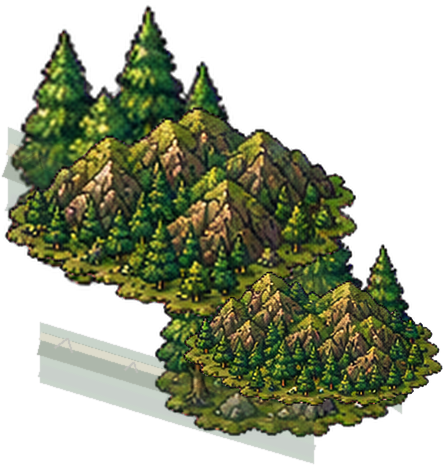
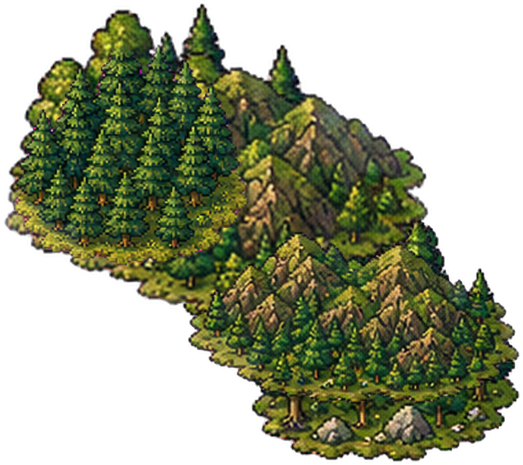
Add production Harz terrain glyph layer
# Conflicts:
#	assets/map/germany_styled.png
#	assets/map/massifs/harz.json
#	assets/map/massifs/harz.png
#	assets/map/massifs/manifest.json
#	docs/map-orchestrator-progress.md
#	tests/test_map_geography_audit.py

diff --git a/map_pipeline/compose_map.py b/map_pipeline/compose_map.py
@@ -336,10 +336,11 @@ RELIEF_REGIONS = [
         "label": "Harz",
         "kind": "isolated_mountain_range",
         "glyph": "forested_highland",
+        "custom_renderer": "harz_production_v1",
         "fill": (55, 112, 59, 96),
         "blur": 24,
         "points": [(9.76, 52.14), (10.55, 52.22), (11.36, 51.92), (11.48, 51.52), (10.72, 51.24), (9.72, 51.42)],
-        "trees": [(10.36, 51.88, 72), (10.84, 51.58, 64)],
+        "trees": [(10.18, 51.96, 72), (10.42, 51.86, 78), (10.72, 51.72, 66), (10.96, 51.55, 62)],
         "ridge_bands": [
             {
                 "id": "harz_brocken_spine",
@@ -356,7 +357,11 @@ RELIEF_REGIONS = [
                 "step": 28,
             },
         ],
-        "mountain_glyphs": [("highland_forest_1", 10.50, 51.78, 188), ("highland_forest_2", 10.92, 51.55, 138)],
+        "mountain_glyphs": [
+            ("highland_forest_1", 10.42, 51.82, 226),
+            ("highland_forest_2", 10.86, 51.60, 176),
+            ("atlas_forest_pine_dense", 10.15, 51.92, 132),
+        ],
         "mountains": [],
     },
     {
@@ -1383,6 +1388,9 @@ def _draw_terrain(canvas, proj, land_mask):
 
 
 def _render_relief_region_decor_layer(size, proj, region):
+    if region.get("custom_renderer") == "harz_production_v1":
+        return _render_harz_production_layer(size, proj, region)
+
     layer = Image.new("RGBA", size, (0, 0, 0, 0))
     draw = ImageDraw.Draw(layer)
     for lon, lat, tree_size in region.get("trees", []):
@@ -1396,6 +1404,32 @@ def _render_relief_region_decor_layer(size, proj, region):
     for lon, lat, mountain_size in region.get("mountains", []):
         _draw_mountains(layer, draw, proj, lon, lat, mountain_size, region.get("glyph", "alpine"))
     return layer
+
+
+def _render_harz_production_layer(size, proj, region):
+    layer = Image.new("RGBA", size, (0, 0, 0, 0))
+    region_mask = _relief_region_alpha_mask(size, proj, region)
+
+    for lon, lat, radius in region.get("trees", []):
+        _draw_tree_cluster(layer, proj, lon, lat, radius)
+
+    glyph_layer = Image.new("RGBA", size, (0, 0, 0, 0))
+    for glyph_name, lon, lat, width in region.get("mountain_glyphs", []):
+        _draw_glyph_center(glyph_layer, proj, glyph_name, lon, lat, width)
+    glyph_alpha = Image.composite(glyph_layer.getchannel("A"), Image.new("L", size, 0), region_mask)
+    glyph_layer.putalpha(glyph_alpha)
+    layer.alpha_composite(glyph_layer)
+    return layer
+
+
+def _relief_region_alpha_mask(size, proj, region):
+    mask = Image.new("L", size, 0)
+    draw = ImageDraw.Draw(mask)
+    polygon = [_project_point(proj, lon, lat) for lon, lat in region.get("points", [])]
+    if len(polygon) >= 3:
+        draw.polygon(polygon, fill=230)
+        mask = mask.filter(ImageFilter.GaussianBlur(4 * RENDER_SCALE))
+    return mask
 
 
 def _should_export_relief_region_source_layer(region):
@@ -1919,43 +1953,44 @@ def _massif_source_metadata(segment, image_name, render_bbox, cropped_size, proj
 def _relief_region_source_metadata(region, image_name, render_bbox, cropped_size, proj):
     contract_layer = _terrain_massif_contract_layers().get(region["id"], {})
     metadata = _source_layer_base_metadata(region, image_name, render_bbox, cropped_size, proj)
-    metadata.update(
-        {
-            "source_extent_id": contract_layer.get("source_extent_id", region["id"]),
-            "source_type": "relief_region",
-            "kind": region.get("kind", ""),
-            "placement_policy": contract_layer.get("placement_policy", "named_region_layer"),
-            "source_confidence": contract_layer.get("source_confidence", "uncontracted"),
-            "replacement_status": contract_layer.get("replacement_status", "needs_custom_asset"),
-            "region_polygon": [{"longitude": lon, "latitude": lat} for lon, lat in region.get("points", [])],
-            "trees": [
-                {"longitude": lon, "latitude": lat, "radius": radius}
-                for lon, lat, radius in region.get("trees", [])
-            ],
-            "ridge_bands": [
-                {
-                    "id": ridge_band["id"],
-                    "style": ridge_band.get("style", "alpine"),
-                    "points": [{"longitude": lon, "latitude": lat} for lon, lat in ridge_band.get("points", [])],
-                    "height": ridge_band.get("height", 72),
-                    "step": ridge_band.get("step", 44),
-                }
-                for ridge_band in region.get("ridge_bands", [])
-            ],
-            "massif_segments": [segment["id"] for segment in region.get("massif_segments", [])],
-            "glyphs": [
-                {
-                    "glyph": glyph_name,
-                    "longitude": lon,
-                    "latitude": lat,
-                    "width": width,
-                    "y_offset": 0.0,
-                }
-                for glyph_name, lon, lat, width in region.get("mountain_glyphs", [])
-            ],
-            "extends_to": region.get("extends_to", []),
-        }
-    )
+    extra = {
+        "source_extent_id": contract_layer.get("source_extent_id", region["id"]),
+        "source_type": "relief_region",
+        "kind": region.get("kind", ""),
+        "placement_policy": contract_layer.get("placement_policy", "named_region_layer"),
+        "source_confidence": contract_layer.get("source_confidence", "uncontracted"),
+        "replacement_status": contract_layer.get("replacement_status", "needs_custom_asset"),
+        "region_polygon": [{"longitude": lon, "latitude": lat} for lon, lat in region.get("points", [])],
+        "trees": [
+            {"longitude": lon, "latitude": lat, "radius": radius}
+            for lon, lat, radius in region.get("trees", [])
+        ],
+        "ridge_bands": [
+            {
+                "id": ridge_band["id"],
+                "style": ridge_band.get("style", "alpine"),
+                "points": [{"longitude": lon, "latitude": lat} for lon, lat in ridge_band.get("points", [])],
+                "height": ridge_band.get("height", 72),
+                "step": ridge_band.get("step", 44),
+            }
+            for ridge_band in region.get("ridge_bands", [])
+        ],
+        "massif_segments": [segment["id"] for segment in region.get("massif_segments", [])],
+        "glyphs": [
+            {
+                "glyph": glyph_name,
+                "longitude": lon,
+                "latitude": lat,
+                "width": width,
+                "y_offset": 0.0,
+            }
+            for glyph_name, lon, lat, width in region.get("mountain_glyphs", [])
+        ],
+        "extends_to": region.get("extends_to", []),
+    }
+    if region.get("custom_renderer"):
+        extra["custom_renderer"] = region["custom_renderer"]
+    metadata.update(extra)
     return metadata
 
 

diff --git a/tests/test_map_geography_audit.py b/tests/test_map_geography_audit.py
@@ -97,6 +97,21 @@ class MapGeographyAuditTest(unittest.TestCase):
                 with self.subTest(region=region["id"], tree_size=tree_size):
                     self.assertGreaterEqual(_relief_tree_cluster_width(tree_size), RELIEF_TREE_CLUSTER_MIN_WIDTH)
 
+    def test_harz_uses_custom_production_renderer(self) -> None:
+        from map_pipeline.compose_map import RELIEF_REGIONS, TERRAIN_MASSIF_LAYERS_PATH
+        import json
+
+        harz = next(region for region in RELIEF_REGIONS if region["id"] == "harz")
+        self.assertEqual("harz_production_v1", harz["custom_renderer"])
+        self.assertGreaterEqual(len(harz["trees"]), 4)
+        self.assertIn(("atlas_forest_pine_dense", 10.15, 51.92, 132), harz["mountain_glyphs"])
+
+        with open(TERRAIN_MASSIF_LAYERS_PATH, "r", encoding="utf-8") as file:
+            contract = json.load(file)
+        harz_contract = next(layer for layer in contract["source_layers"] if layer["id"] == "harz")
+        self.assertEqual("production_candidate_custom_harz_v1", harz_contract["replacement_status"])
+        self.assertIn("atlas_forest_pine_dense", harz_contract["allowed_glyphs"])
+
     def test_alpine_rendered_segments_are_not_decorative_only_anchors(self) -> None:
         from map_pipeline.compose_map import ALPINE_MASSIF_SEGMENTS, ALPINE_RELIEF_EXTENTS_PATH
         import json

diff --git a/tests/test_map_panel_contract.py b/tests/test_map_panel_contract.py
@@ -376,8 +376,8 @@ class MapPanelContractTest(unittest.TestCase):
             '"id": "austrian_alps_massif"',
             '"massif_segments": ALPINE_MASSIF_SEGMENTS',
             '"mountain_glyphs": []',
-            '("highland_forest_1", 10.50, 51.78, 188)',
-            '("highland_forest_2", 10.92, 51.55, 138)',
+            '("highland_forest_1", 10.42, 51.82, 226)',
+            '("highland_forest_2", 10.86, 51.60, 176)',
             '("border_highland_1", 13.10, 50.66, 145)',
             '"extends_to": ["France", "Switzerland", "Italy", "Austria", "Slovenia"]',
             '"id": "black_forest"',
@@ -387,6 +387,8 @@ class MapPanelContractTest(unittest.TestCase):
             '"id": "harz"',
             '"id": "harz_brocken_spine"',
             '"id": "harz_south_spur"',
+            '"custom_renderer": "harz_production_v1"',
+            "def _render_harz_production_layer(size, proj, region):",
             '"id": "erzgebirge"',
             '"glyph": "border_highland"',
             '"id": "erzgebirge_border_spine"',

diff --git a/docs/map-orchestrator-progress.md b/docs/map-orchestrator-progress.md
@@ -1235,3 +1235,21 @@ Strict review status:
 Parallel work still running:
 
 - #69 worker is still active on the real production glyph-layer terrain pass. This is the main blocker for moving from prototype quality toward the requested reusable-glyph reference-map direction.
+
+## Iteration 2026-06-01 00:20
+
+Worker pass for #69 in worktree `/tmp/cable-world-issue-69-production-terrain-glyphs`:
+
+- Started the production glyph-layer terrain pass instead of another guardrail-only change.
+- Replaced the Harz rendering path with `custom_renderer: "harz_production_v1"`.
+- The Harz source layer now composes larger reusable transparent glyphs (`highland_forest_1`, `highland_forest_2`, `atlas_forest_pine_dense`) and expanded forest masses.
+- Removed the old visible green ridge-band rectangle from the Harz source PNG; ridge-band geometry remains in metadata for source accuracy and future art passes.
+- Updated `map_pipeline/data/terrain_massif_layers.json` so Harz is marked `production_candidate_custom_harz_v1`.
+- Regenerated `assets/map/germany_styled.png`, `assets/map/massifs/harz.png`, `assets/map/massifs/harz.json` and `assets/map/massifs/manifest.json`.
+
+Evidence:
+
+- `assets/map/massifs/harz.png` was visually checked directly. It is now a transparent reusable Harz terrain layer without the previous rectangular band artifact.
+- `assets/map/germany_styled.png` was visually checked directly. Harz is cleaner and more readable, but the full map is still not `10/10`.
+
+Self-audit: this is a useful production-art slice for #69, not final acceptance. Current overall map remains rejected below `10/10` because Alps and the other massif layers still need equivalent custom/elevation-backed art passes and strict Web screenshot review.

diff --git a/docs/map-generation-handoff.md b/docs/map-generation-handoff.md
@@ -474,3 +474,29 @@ Latest audit:
 ```text
 docs/map-quality-audit-2026-05-31.md
 ```
+
+## Harz production glyph-layer pass
+
+Issue #69 first production-art slice replaces the generic Harz placeholder with a reusable transparent source layer generated by the local renderer, not by a monolithic map bitmap.
+
+No external raster generation was used for this pass, so there is no imagegen prompt. The repeatable workflow is:
+
+```bash
+uv run python -m map_pipeline.compose_map
+```
+
+The command writes:
+
+- `assets/map/germany_styled.png`
+- `assets/map/massifs/harz.png`
+- `assets/map/massifs/harz.json`
+- `assets/map/massifs/manifest.json`
+
+Implementation notes:
+
+- `RELIEF_REGIONS["harz"]` uses `custom_renderer: "harz_production_v1"`.
+- The layer is composed from existing transparent atlas glyphs and larger tree masses: `highland_forest_1`, `highland_forest_2`, and `atlas_forest_pine_dense`.
+- `ridge_bands` remain in metadata as real Harz structure, but the renderer no longer draws the old generic green ridge-band rectangle into the Harz source layer.
+- `map_pipeline/data/terrain_massif_layers.json` marks Harz as `production_candidate_custom_harz_v1`.
+
+Self-audit: this is a material #69 improvement because Harz is now a cleaner reusable terrain layer instead of a generic stamped mountain group with visible technical bands. It is not a full `10/10` terrain solution: Alps and other massifs still need equivalent custom/elevation-backed passes and strict screenshot review.

diff --git a/docs/terrain-glyph-layer-inventory.md b/docs/terrain-glyph-layer-inventory.md
@@ -24,7 +24,7 @@ They must not be shipped as full-map production underlays.
 ## Current Named Layers
 
 - `alps`: composite cross-border layer, backed by Alpine child segments and `map_pipeline/data/alpine_relief_extents.json`; still pre-DEM and not production-approved.
-- `harz`: isolated central massif layer with `harz_brocken_spine` and `harz_south_spur`; readable placeholder, needs custom Harz asset.
+- `harz`: isolated central massif layer with `harz_brocken_spine` and `harz_south_spur`; first production-candidate custom renderer `harz_production_v1` replaces the generic ridge-band rectangle with one reusable transparent source layer composed from larger forest/mountain glyphs.
 - `black_forest`: named forested highland spine; needs custom forested massif glyph.
 - `bavarian_forest`: named forested highland spine; needs custom forested massif glyph.
 - `erzgebirge`: named border ridge; needs custom Erzgebirge asset.
